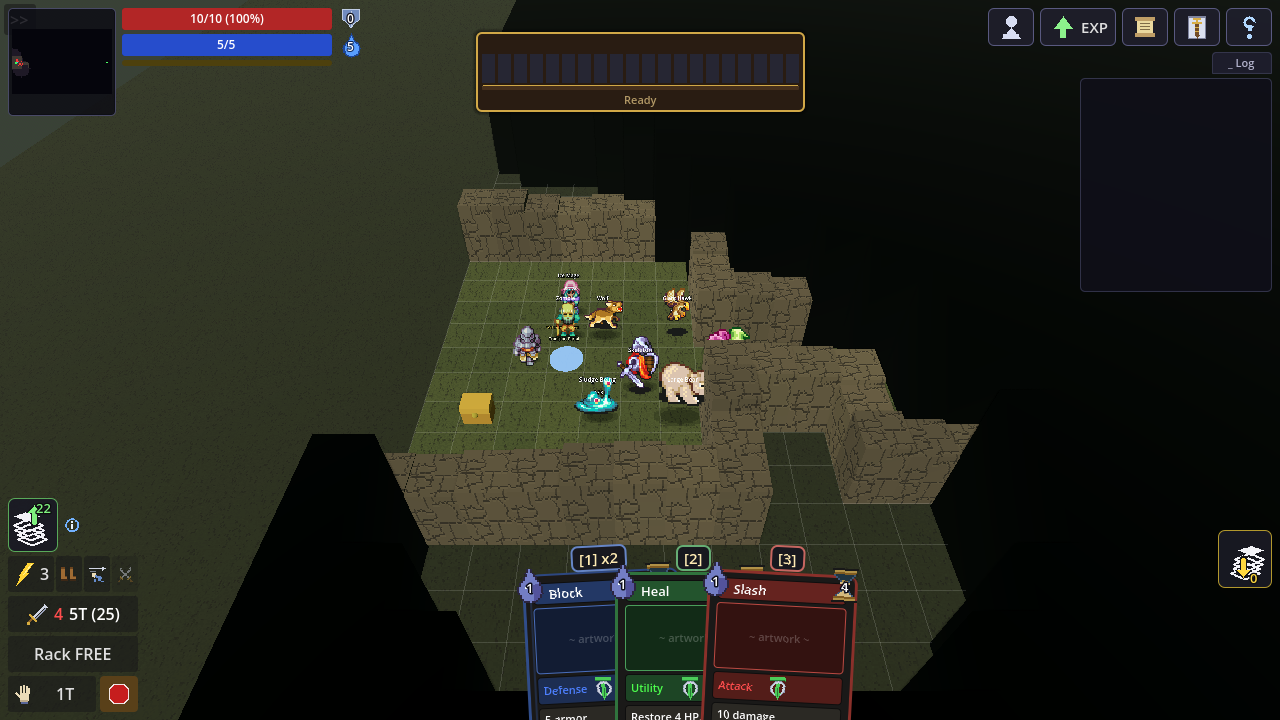
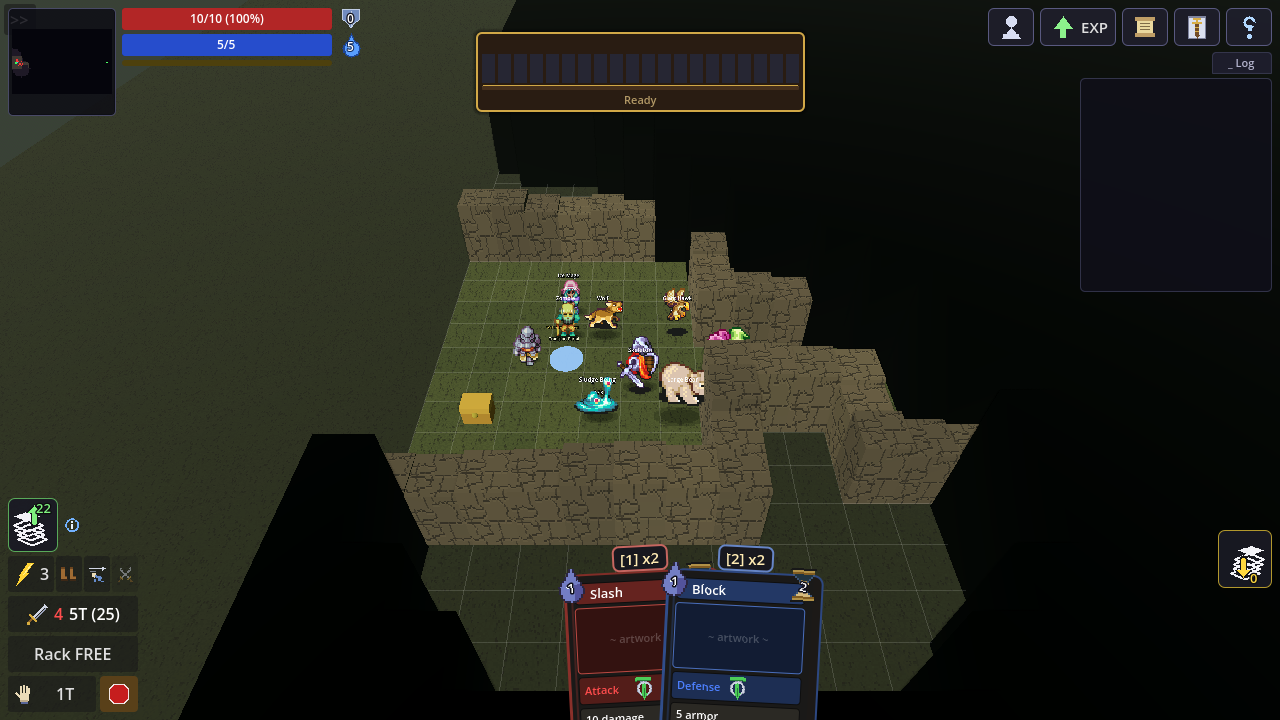
Verification Pass 1: structural audit clean
Full re-audit table in docs/VERIFY_PASS1.md with file:line citations.
One FAIL found and fixed (UI cost icons were 26x34, off the 8px grid —
padded to 32x40 with matching badge geometry). Screenshots regenerated;
dungeon/hand/party regression tests green.

Claude-Session: https://claude.ai/code/session_01B3GTYBWS5a6T76KyauByDc

Changed region(s): [[0.4062, 0.7333, 0.6875, 1.0]]

diff --git a/docs/VERIFY_PASS1.md b/docs/VERIFY_PASS1.md
@@ -1,0 +1,31 @@
+# Verification Pass 1 — Structural
+
+Re-audit after Phases 0–8, checks re-run against the actual files (not
+memory). Checks marked *(3D-adapted)* apply the spec's intent to the 3D
+billboard architecture per the confirmed scope. Status after the fix round:
+**all rows PASS or N/A.**
+
+| Check | Status | File:Line | Notes |
+|---|---|---|---|
+| 2D sprite scales exactly (1,1) | PASS | `scenes/**/*.tscn` (grep `scale = Vector2` → no sprite hits); `scripts/demo/sprite_character.gd` | No Sprite2D/AnimatedSprite2D carries a scale. |
+| Uniform billboard texel density *(3D-adapted)* | PASS | `scripts/character/sprite_figure.gd:49`, `scripts/battle/sprite_enemy_figure.gd:97` | Both `PIXEL_SIZE := 0.034`; NPC-enemy 1.15× multiplier removed (`sprite_enemy_figure.gd:131` now uses `PIXEL_SIZE`). Creature size differences use integer-ish rig scale only. |
+| Texture imports: nearest, mipmaps off | PASS | `project.godot` (`default_texture_filter=0`); grep `mipmaps/generate=true` over `assets/**` → 0 files | Materials additionally pin `TEXTURE_FILTER_NEAREST` (`sprite_figure.gd:_make_sprite`, `sprite_enemy_figure.gd:126`, `dungeon_manager.gd:1023`). |
+| Generated sprite dims multiple of 8 | PASS | see `docs/AUDIT.md` §2; `assets/ui/*.png` now 32×40 | UI icons were 26×34 (**FAIL→fixed**: padded to 32×40; badge geometry updated `scripts/cards/card_ui.gd:_ensure_cost_badges`). Tiles 128², monsters 64², blob 32×16. |
+| ≤15 colors + transparency per generated sprite | PASS | `tools/conform_palette.py --check` output | UI icons 4/6; monster recolors 5–10; tiles 3–5 grays. 14 files, 0 over budget. |
+| Every generated color ∈ master palette | PASS | `tools/conform_palette.py` (CIE-Lab rewrite, Phase 3 commit) | Color assets are exact palette members by construction; tile textures exempt-by-design (grayscale × runtime palette tint, ≤8-step ladder). Purchased packs exempt per owner. |
+| Shadow node on every character/enemy | PASS | `scripts/character/sprite_figure.gd:111`, `scripts/battle/sprite_enemy_figure.gd:163`, `scripts/battle/blob_shadow.gd` | Hard 2-step ellipse (38%/20% black), flat quad, never billboarded/rotated with facing, airborne shrink (`sprite_figure.gd:_process`). Flyers with painted shadows excluded (`PAINTED_SHADOW_KINDS`, `sprite_enemy_figure.gd:100`). Procedural-figure fallbacks keep their spec-compatible hard disc (`character_figure.gd:96`). |
+| No engine-cast shadows | PASS | `scripts/core/main.gd:388` | `shadow_enabled = false` at boot. |
+| Single global light upper-left | PASS | `main.gd:384-388`, `character_card.gd:359`, `character_panel.gd:501`, `enemy_inspect_ui.gd:139`, `tests/_capture_anim.gd:31` | All keys at `(-45, -30, 0)`. |
+| World geometry on the grid | PASS | `scripts/core/dungeon_manager.gd` (integer tile grid; `_build_floor_visuals` at `x+0.5, z+0.5`) | All terrain generated on 1-unit cells; `ALL DUNGEON TESTS PASSED`. |
+| Y-sort / feet origin | N/A | — | 2D-only concept; 3D depth sorting + feet-anchored billboards (`sprite_figure.gd:_setup_doll` y=12px lift) serve the same role. |
+| Animation ≤12 fps | PASS* | `sprite_figure.gd:46-48` | Walks 5.5–7.4 fps. Attack strike frames run 65 ms (~15 fps momentary) — this is the purchased pack's own canonical timing (`guides/using sword & shield.txt`), kept deliberately as reference-authoritative; documented exception. |
+| No off-axis pixel rotation / no sprite scale tweens | PASS | `sprite_enemy_figure.gd:_process` (waddle roll removed); `blob_shadow.gd:22` (−90° flat quad, allowed) | Remaining tweens translate whole billboards only; `_guard_fx` scales the 3D rig (squash) — flagged to Pass 2 for feel review. |
+| Hit flash: hard 2-frame, no tween curve | PASS | `sprite_figure.gd:flash`, `sprite_enemy_figure.gd:flash` | Snap on → 0.07 s hold → snap off; white saturating on damage. |
+| Camera quantized *(3D-adapted)* | PASS | `main.gd:7434` | Orbit yaw settles to 45° steps on release. |
+| Low-res world render, no filtering artifacts | PASS | `main.gd:342-379` (`WORLD_RES 640×360`, nearest `SubViewportContainer`); `docs/screens/*.png` | Screenshots show 2× chunky texels, crisp full-res UI overlay. |
+| No default Godot theme in UI | N/A | — | UI is a deferred milestone per owner decision (STYLE_GUIDE §8). |
+| Screenshots generated | PASS | `tools/capture_screens.gd`; `docs/screens/battle_brad.png`, `battle_ryan.png`, `character_select.png`, `sprite_viewer.png` | Harness runs under xvfb + GL. |
+
+Fix round applied in this pass: UI icon dimensions (26×34 → 32×40 with badge
+geometry update). All other rows passed on first re-audit. Regression:
+`test_dungeon_gen`, `test_ally_party`, `test_hand_slots` green.
